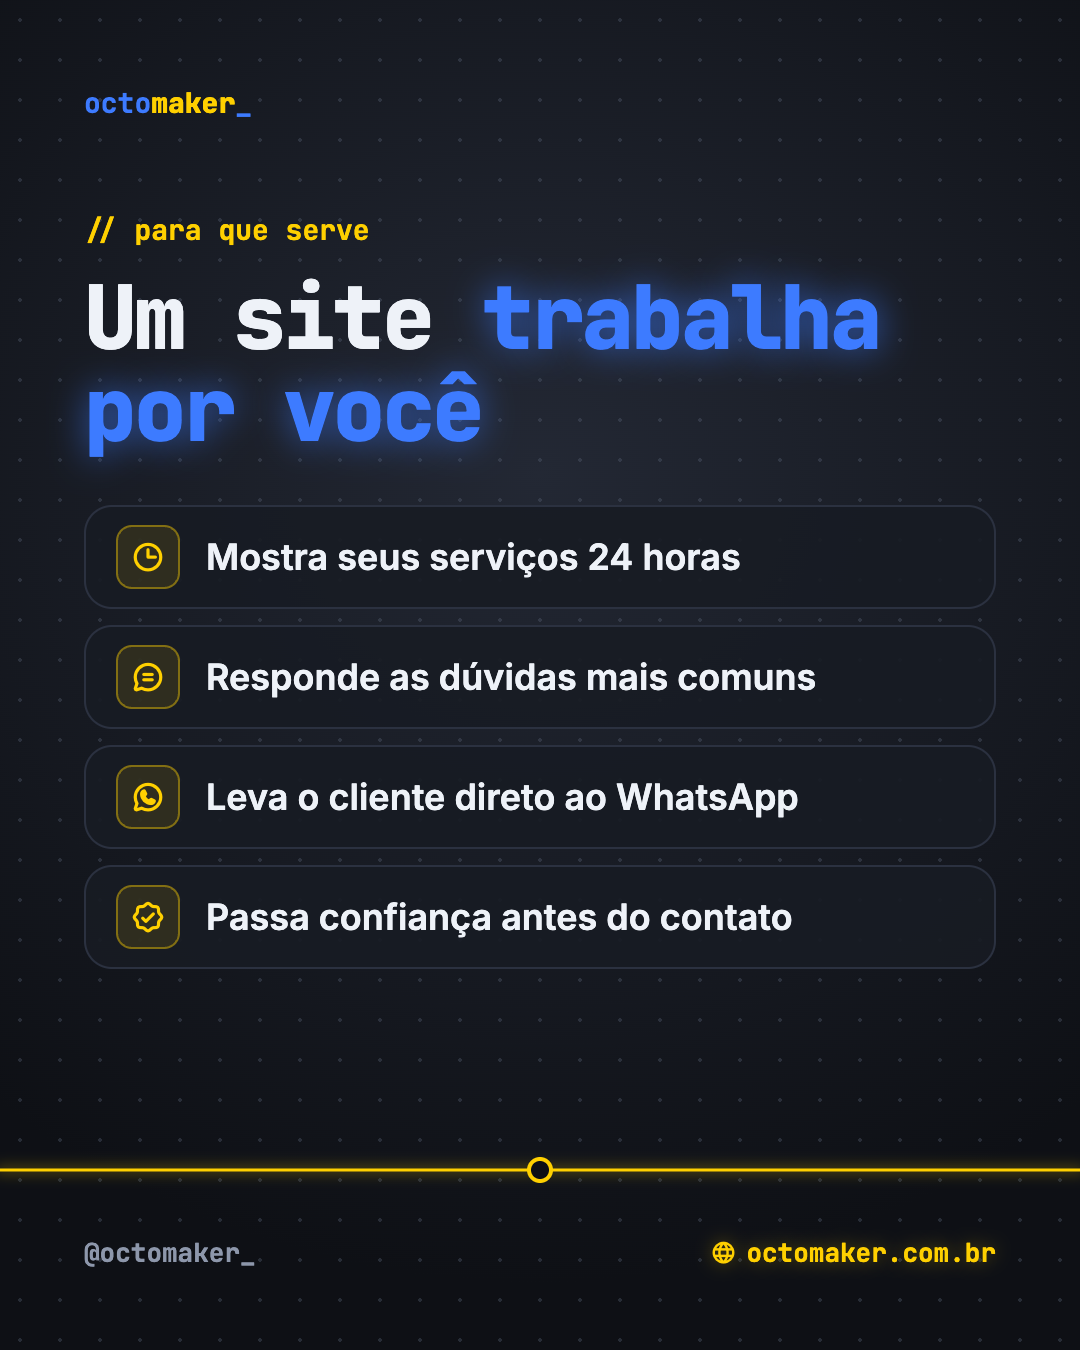
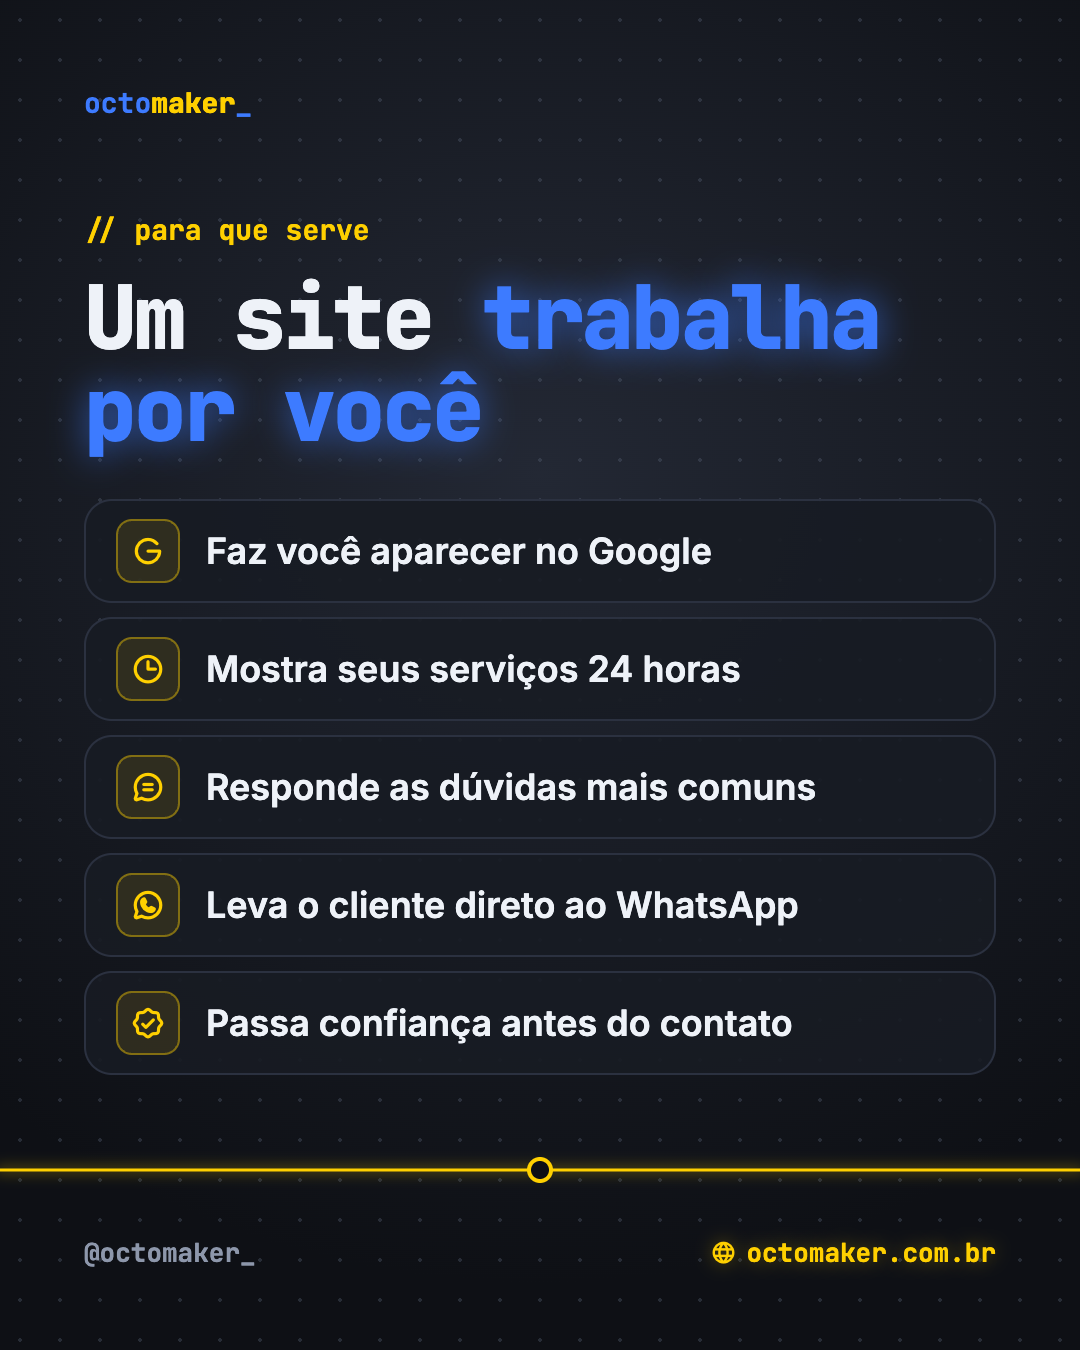
Destaque para aparecer no Google

Changed region(s): [[0.0917, 0.3733, 0.9167, 0.8089]]

diff --git a/instagram/_fontes/c4.html b/instagram/_fontes/c4.html
@@ -30,7 +30,7 @@ h1 .y { color:var(--yellow); text-shadow:0 0 36px #ffd00088; }
   <div class="eyebrow">// para que serve</div>
   <h1 style="margin-top:24px">Um site <span class="b">trabalha por você</span></h1>
 </div>
-<div style="display:flex;flex-direction:column;gap:16px;margin-top:50px"><div class="card" style="display:flex;gap:26px;align-items:center;padding:18px 30px"><span class="ico y"><i class="ph-bold ph-clock"></i></span><b style="font-size:36px;font-weight:600">Mostra seus serviços 24 horas</b></div><div class="card" style="display:flex;gap:26px;align-items:center;padding:18px 30px"><span class="ico y"><i class="ph-bold ph-chat-circle-text"></i></span><b style="font-size:36px;font-weight:600">Responde as dúvidas mais comuns</b></div><div class="card" style="display:flex;gap:26px;align-items:center;padding:18px 30px"><span class="ico y"><i class="ph-bold ph-whatsapp-logo"></i></span><b style="font-size:36px;font-weight:600">Leva o cliente direto ao WhatsApp</b></div><div class="card" style="display:flex;gap:26px;align-items:center;padding:18px 30px"><span class="ico y"><i class="ph-bold ph-seal-check"></i></span><b style="font-size:36px;font-weight:600">Passa confiança antes do contato</b></div></div>
+<div style="display:flex;flex-direction:column;gap:14px;margin-top:44px"><div class="card" style="display:flex;gap:26px;align-items:center;padding:18px 30px"><span class="ico y"><i class="ph-bold ph-google-logo"></i></span><b style="font-size:36px;font-weight:600">Faz você aparecer no Google</b></div><div class="card" style="display:flex;gap:26px;align-items:center;padding:18px 30px"><span class="ico y"><i class="ph-bold ph-clock"></i></span><b style="font-size:36px;font-weight:600">Mostra seus serviços 24 horas</b></div><div class="card" style="display:flex;gap:26px;align-items:center;padding:18px 30px"><span class="ico y"><i class="ph-bold ph-chat-circle-text"></i></span><b style="font-size:36px;font-weight:600">Responde as dúvidas mais comuns</b></div><div class="card" style="display:flex;gap:26px;align-items:center;padding:18px 30px"><span class="ico y"><i class="ph-bold ph-whatsapp-logo"></i></span><b style="font-size:36px;font-weight:600">Leva o cliente direto ao WhatsApp</b></div><div class="card" style="display:flex;gap:26px;align-items:center;padding:18px 30px"><span class="ico y"><i class="ph-bold ph-seal-check"></i></span><b style="font-size:36px;font-weight:600">Passa confiança antes do contato</b></div></div>
 <div class="foot"><span>@octomaker_</span><span class="url"><i class="ph-bold ph-globe"></i>octomaker.com.br</span></div></div><svg class="trace" viewBox="0 0 1080 40"><g fill="none" stroke="#ffd000" stroke-linecap="round">
       <path d="M0 20 H1080" stroke-width="10" opacity=".25" style="filter:blur(6px)"/><path d="M0 20 H1080" stroke-width="3"/>
       <circle cx="540" cy="20" r="11" stroke-width="4" fill="#0e1015"/></g></svg></body></html>

diff --git a/instagram/_fontes/c1.html b/instagram/_fontes/c1.html
@@ -29,7 +29,7 @@ h1 .y { color:var(--yellow); text-shadow:0 0 36px #ffd00088; }
 <div style="margin-top:230px">
   <div class="eyebrow">// olá, somos a OctoMaker</div>
   <h1 style="margin-top:30px;font-size:104px">Seu negócio merece um <span class="b">site</span> profissional<span class="y">_</span></h1>
-  <p class="lead" style="margin-top:34px;max-width:620px">Bonitos, rápidos e prontos em poucos dias.</p>
+  <p class="lead" style="margin-top:34px;max-width:620px">Bonitos, rápidos, prontos em poucos dias e aparecendo no Google.</p>
 </div>
 <div class="foot"><span>@octomaker_</span><span class="url"><i class="ph-bold ph-globe"></i>octomaker.com.br</span></div></div><svg class="trace" viewBox="0 0 1080 40"><g fill="none" stroke="#ffd000" stroke-linecap="round">
       <path d="M84 20 H1080" stroke-width="10" opacity=".25" style="filter:blur(6px)"/><path d="M84 20 H1080" stroke-width="3"/>

diff --git a/portfolio/index.html b/portfolio/index.html
@@ -136,7 +136,7 @@
     <div>
       <div class="eyebrow in-up"><i class="ph-bold ph-code"></i>// portfólio</div>
       <h1 class="in-up" style="animation-delay:.1s">Sites que <span class="typed" id="typed">trazem clientes</span><span class="caret"></span></h1>
-      <p class="in-up" style="animation-delay:.25s">Criamos sites profissionais, rápidos e bonitos, com WhatsApp integrado. Prontos em poucos dias.</p>
+      <p class="in-up" style="animation-delay:.25s">Criamos sites profissionais, rápidos e bonitos, com WhatsApp integrado e prontos para aparecer no Google.</p>
       <div class="ctas in-up" style="animation-delay:.4s">
         <a class="btn" data-wa="Olá! Vi o portfólio da OctoMaker e quero um orçamento para o meu site.">Pedir orçamento <i class="ph-bold ph-arrow-right"></i></a>
         <a class="btn ghost" href="#projetos"><i class="ph ph-squares-four"></i>Ver projetos</a>

diff --git a/marca/guia-de-marca.html b/marca/guia-de-marca.html
@@ -198,8 +198,9 @@
         <div class="user">OctoMaker · Criação de Sites</div>
         <div class="bio">Sites profissionais que trazem clientes
 ✦ Bonitos, rápidos e com WhatsApp
+✦ Aparecem no Google
 ✦ Prontos em poucos dias
-👇 Veja os modelos e peça seu orçamento</div>
+👇 Modelos e orçamento</div>
         <div class="link">octomaker.com.br</div>
         <div class="btn">Enviar mensagem</div>
       </div>

diff --git a/instagram/LEIA-ME.md b/instagram/LEIA-ME.md
@@ -11,8 +11,9 @@ Bio:
 ```
 Sites profissionais que trazem clientes
 ✦ Bonitos, rápidos e com WhatsApp
+✦ Aparecem no Google
 ✦ Prontos em poucos dias
-👇 Veja os modelos e peça seu orçamento
+👇 Modelos e orçamento
 ```
 
 ## Posts
